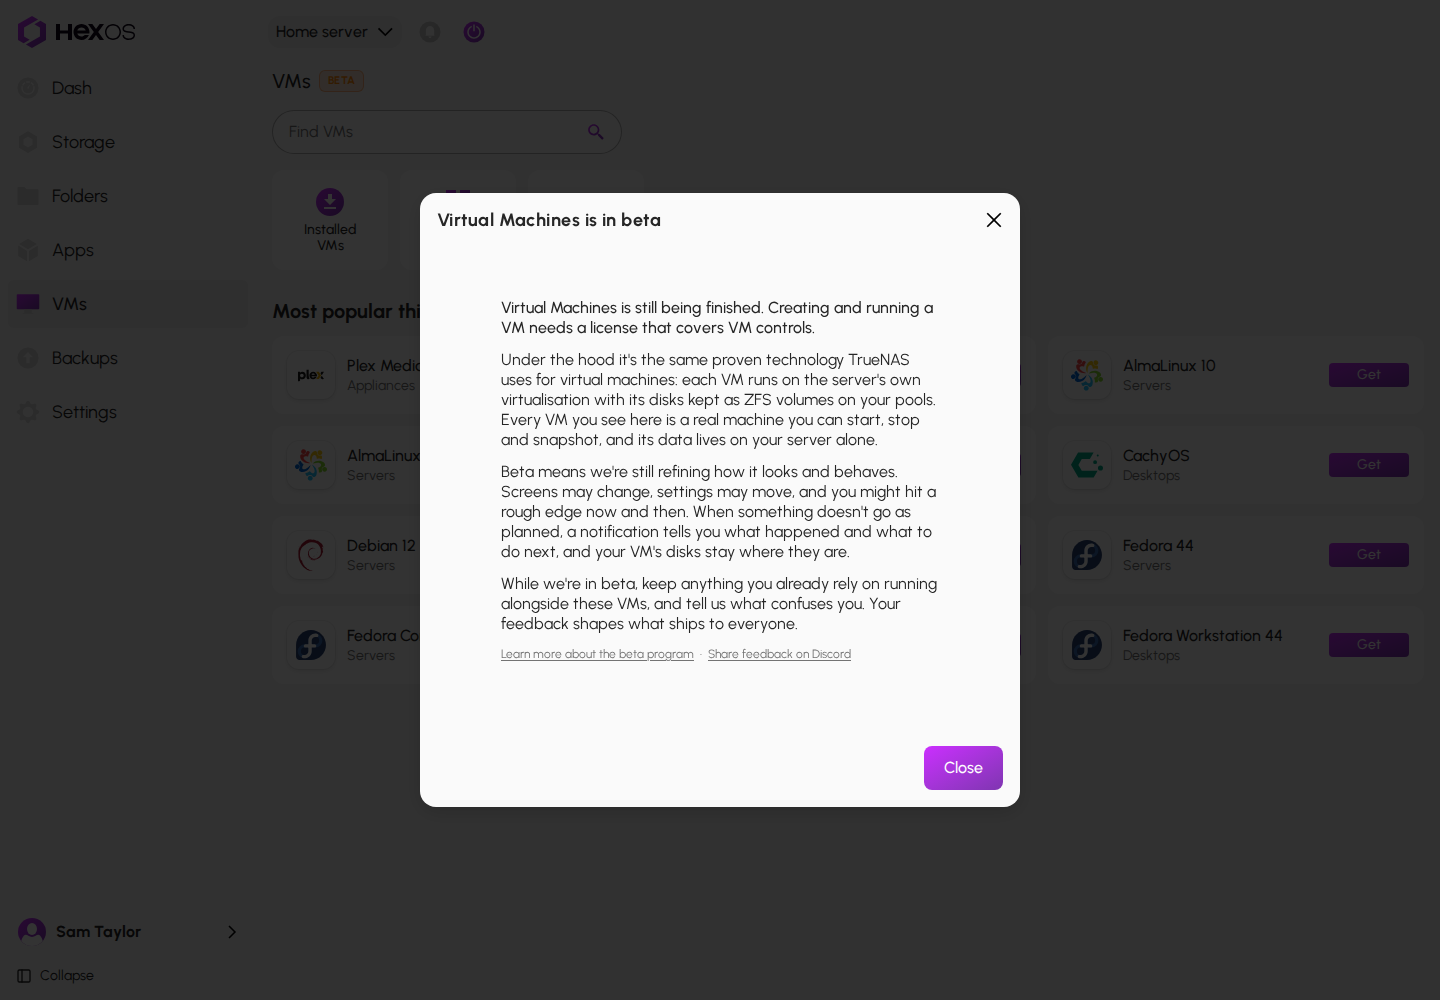
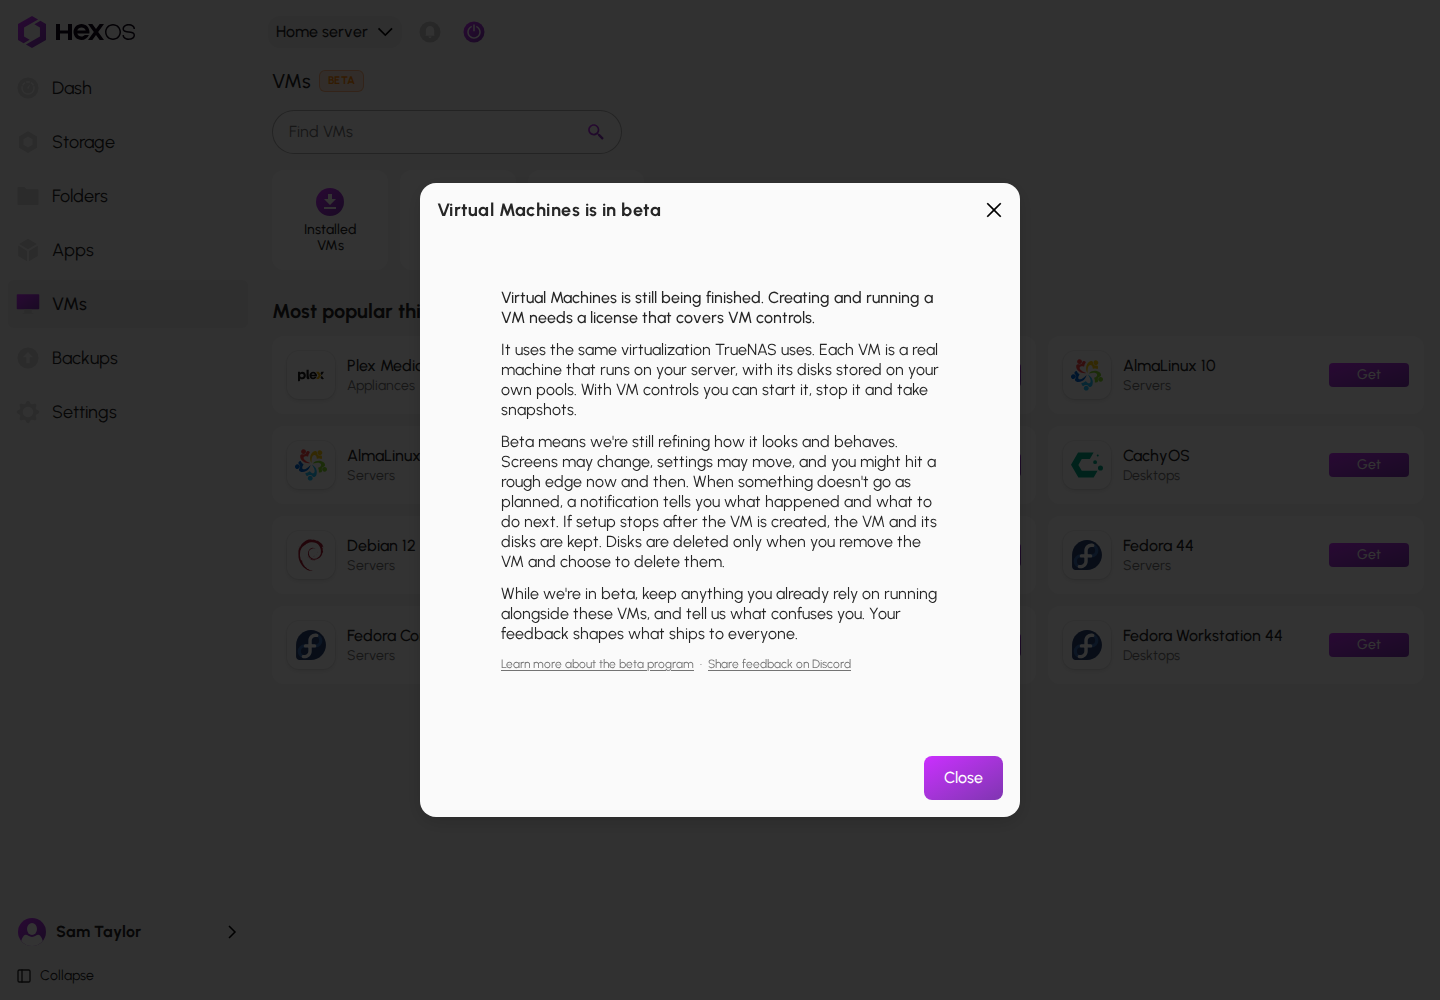
docs: Add passphrase, Recovery key path, kept restore points and VM disk facts to the beta page

Changed region(s): [[0.3438, 0.279, 0.6562, 0.682], [0.2812, 0.744, 0.7188, 0.837], [0.2812, 0.186, 0.7188, 0.248]]

diff --git a/community/beta-programs/buddy-backups-and-virtual-machines.md b/community/beta-programs/buddy-backups-and-virtual-machines.md
@@ -28,9 +28,9 @@ Buddy Backups keeps a copy of your folders on a buddy's server or on a second se
 
 Each finished backup is a restore point you can restore. A backup that is still running or stopped early is not one yet. It uses the same replication that TrueNAS itself uses.
 
-Folders sent to a buddy stay encrypted, and your buddy cannot open them. HexOS keeps your recovery key by default, so it can unlock a restored folder for you. You can keep the key yourself in **Settings** instead.
+Folders sent to a buddy stay encrypted, and your buddy cannot open them. HexOS keeps your recovery key by default, so it can unlock a restored folder for you. A folder locked with your own passphrase still asks for it. You can keep the key yourself in **Settings** > **Recovery key**.
 
-Backup copies are deleted only when you or your buddy confirm an action that removes them. Restore points older than the time you chose to keep are removed automatically.
+Backup copies are deleted only when you or your buddy confirm an action that removes them. Restore points older than the time you chose to keep are removed automatically, except the newest three.
 
 > **Warning:** While Buddy Backups is in beta, keep any backup you already rely on running alongside it.
 {.is-warning}
@@ -47,7 +47,9 @@ Before you remove anything, read [Removing backups](/features/backups/removing-b
 
 Virtual Machines lets you run Windows, Linux, and small appliance systems such as Home Assistant OS on your HexOS server. There is nothing to sign up for and nothing to install. Creating and running a VM needs a license that covers VM controls. Click **VMs** in the sidebar to start.
 
-Every VM is a real computer on your server. It runs on the same virtualization that TrueNAS uses, and its disks are stored on your own pools.
+Every VM is a real computer on your server. It runs on the same virtualization that TrueNAS uses, and its disks are stored on your own pools. With VM controls you can start it, stop it and take snapshots.
+
+If setup stops after the VM is created, the VM and its disks are kept. Disks are deleted only when you remove the VM and choose to delete them.
 
 VM setup is part of the same beta. For Plex Media Server and Home Assistant OS, HexOS can finish setting the system up after it starts, if you allow it. See [VM setup](/features/vms/vm-setup).
 
